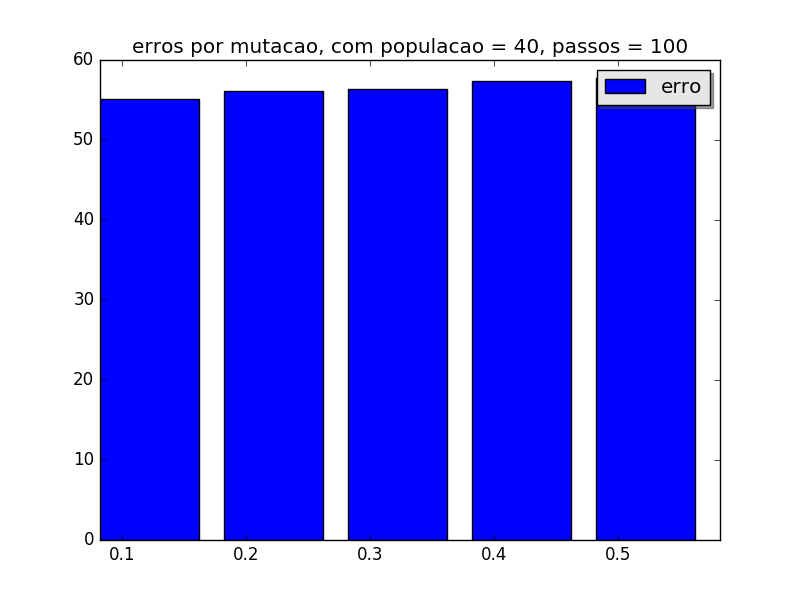
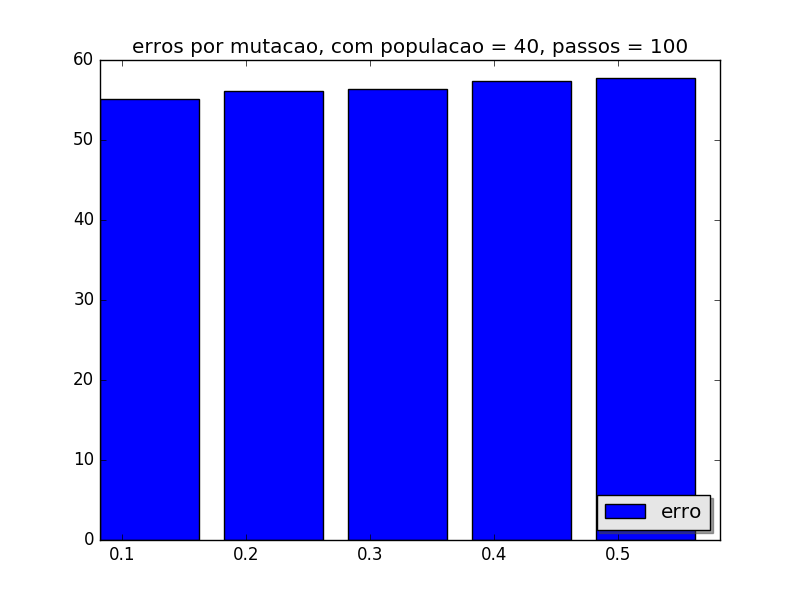
mudando posicao da legenda

Changed region(s): [[0.7188, 0.81, 0.9062, 0.9], [0.7188, 0.09, 0.9062, 0.18]]

diff --git a/gerar_grafico.py b/gerar_grafico.py
@@ -90,7 +90,7 @@ def gerar_grafico(name, label, title, X, Y):
 
     plt.title(title)
     # Now add the legend with some customizations.
-    legend = plt.legend(loc='best', shadow=True)
+    legend = plt.legend(loc='lower right', shadow=True)
     frame = legend.get_frame()
     frame.set_facecolor('0.90')
 
